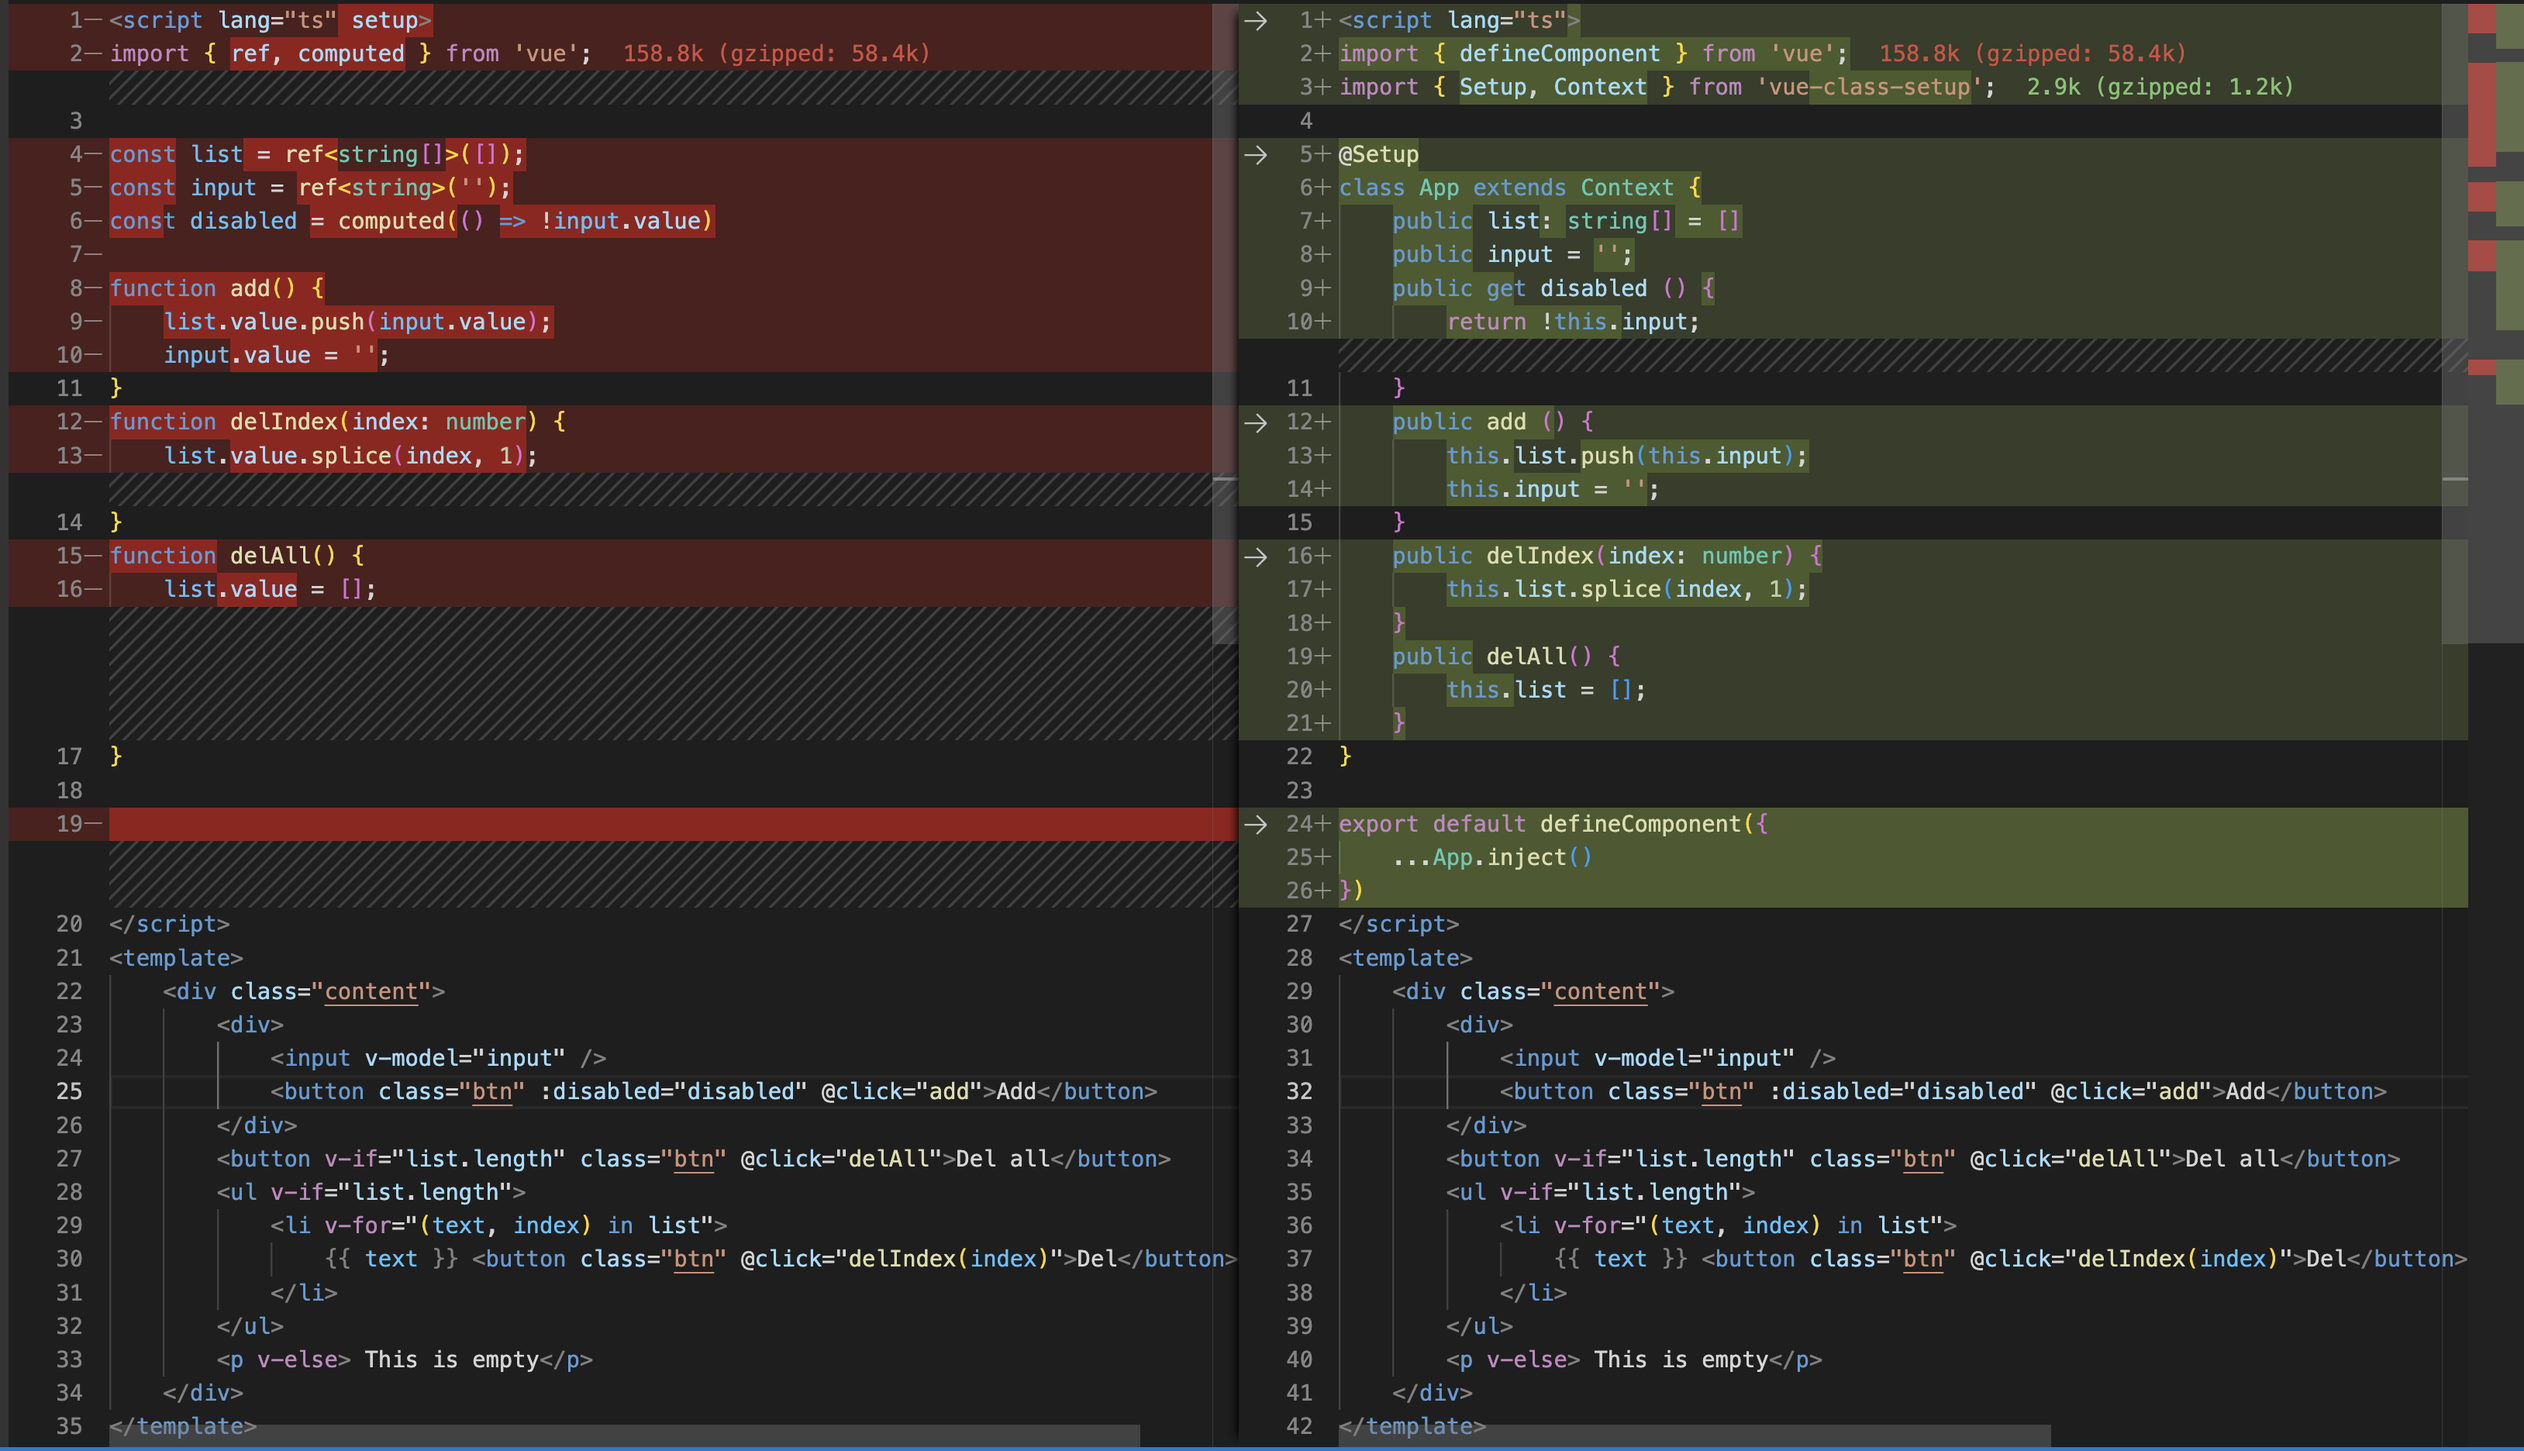
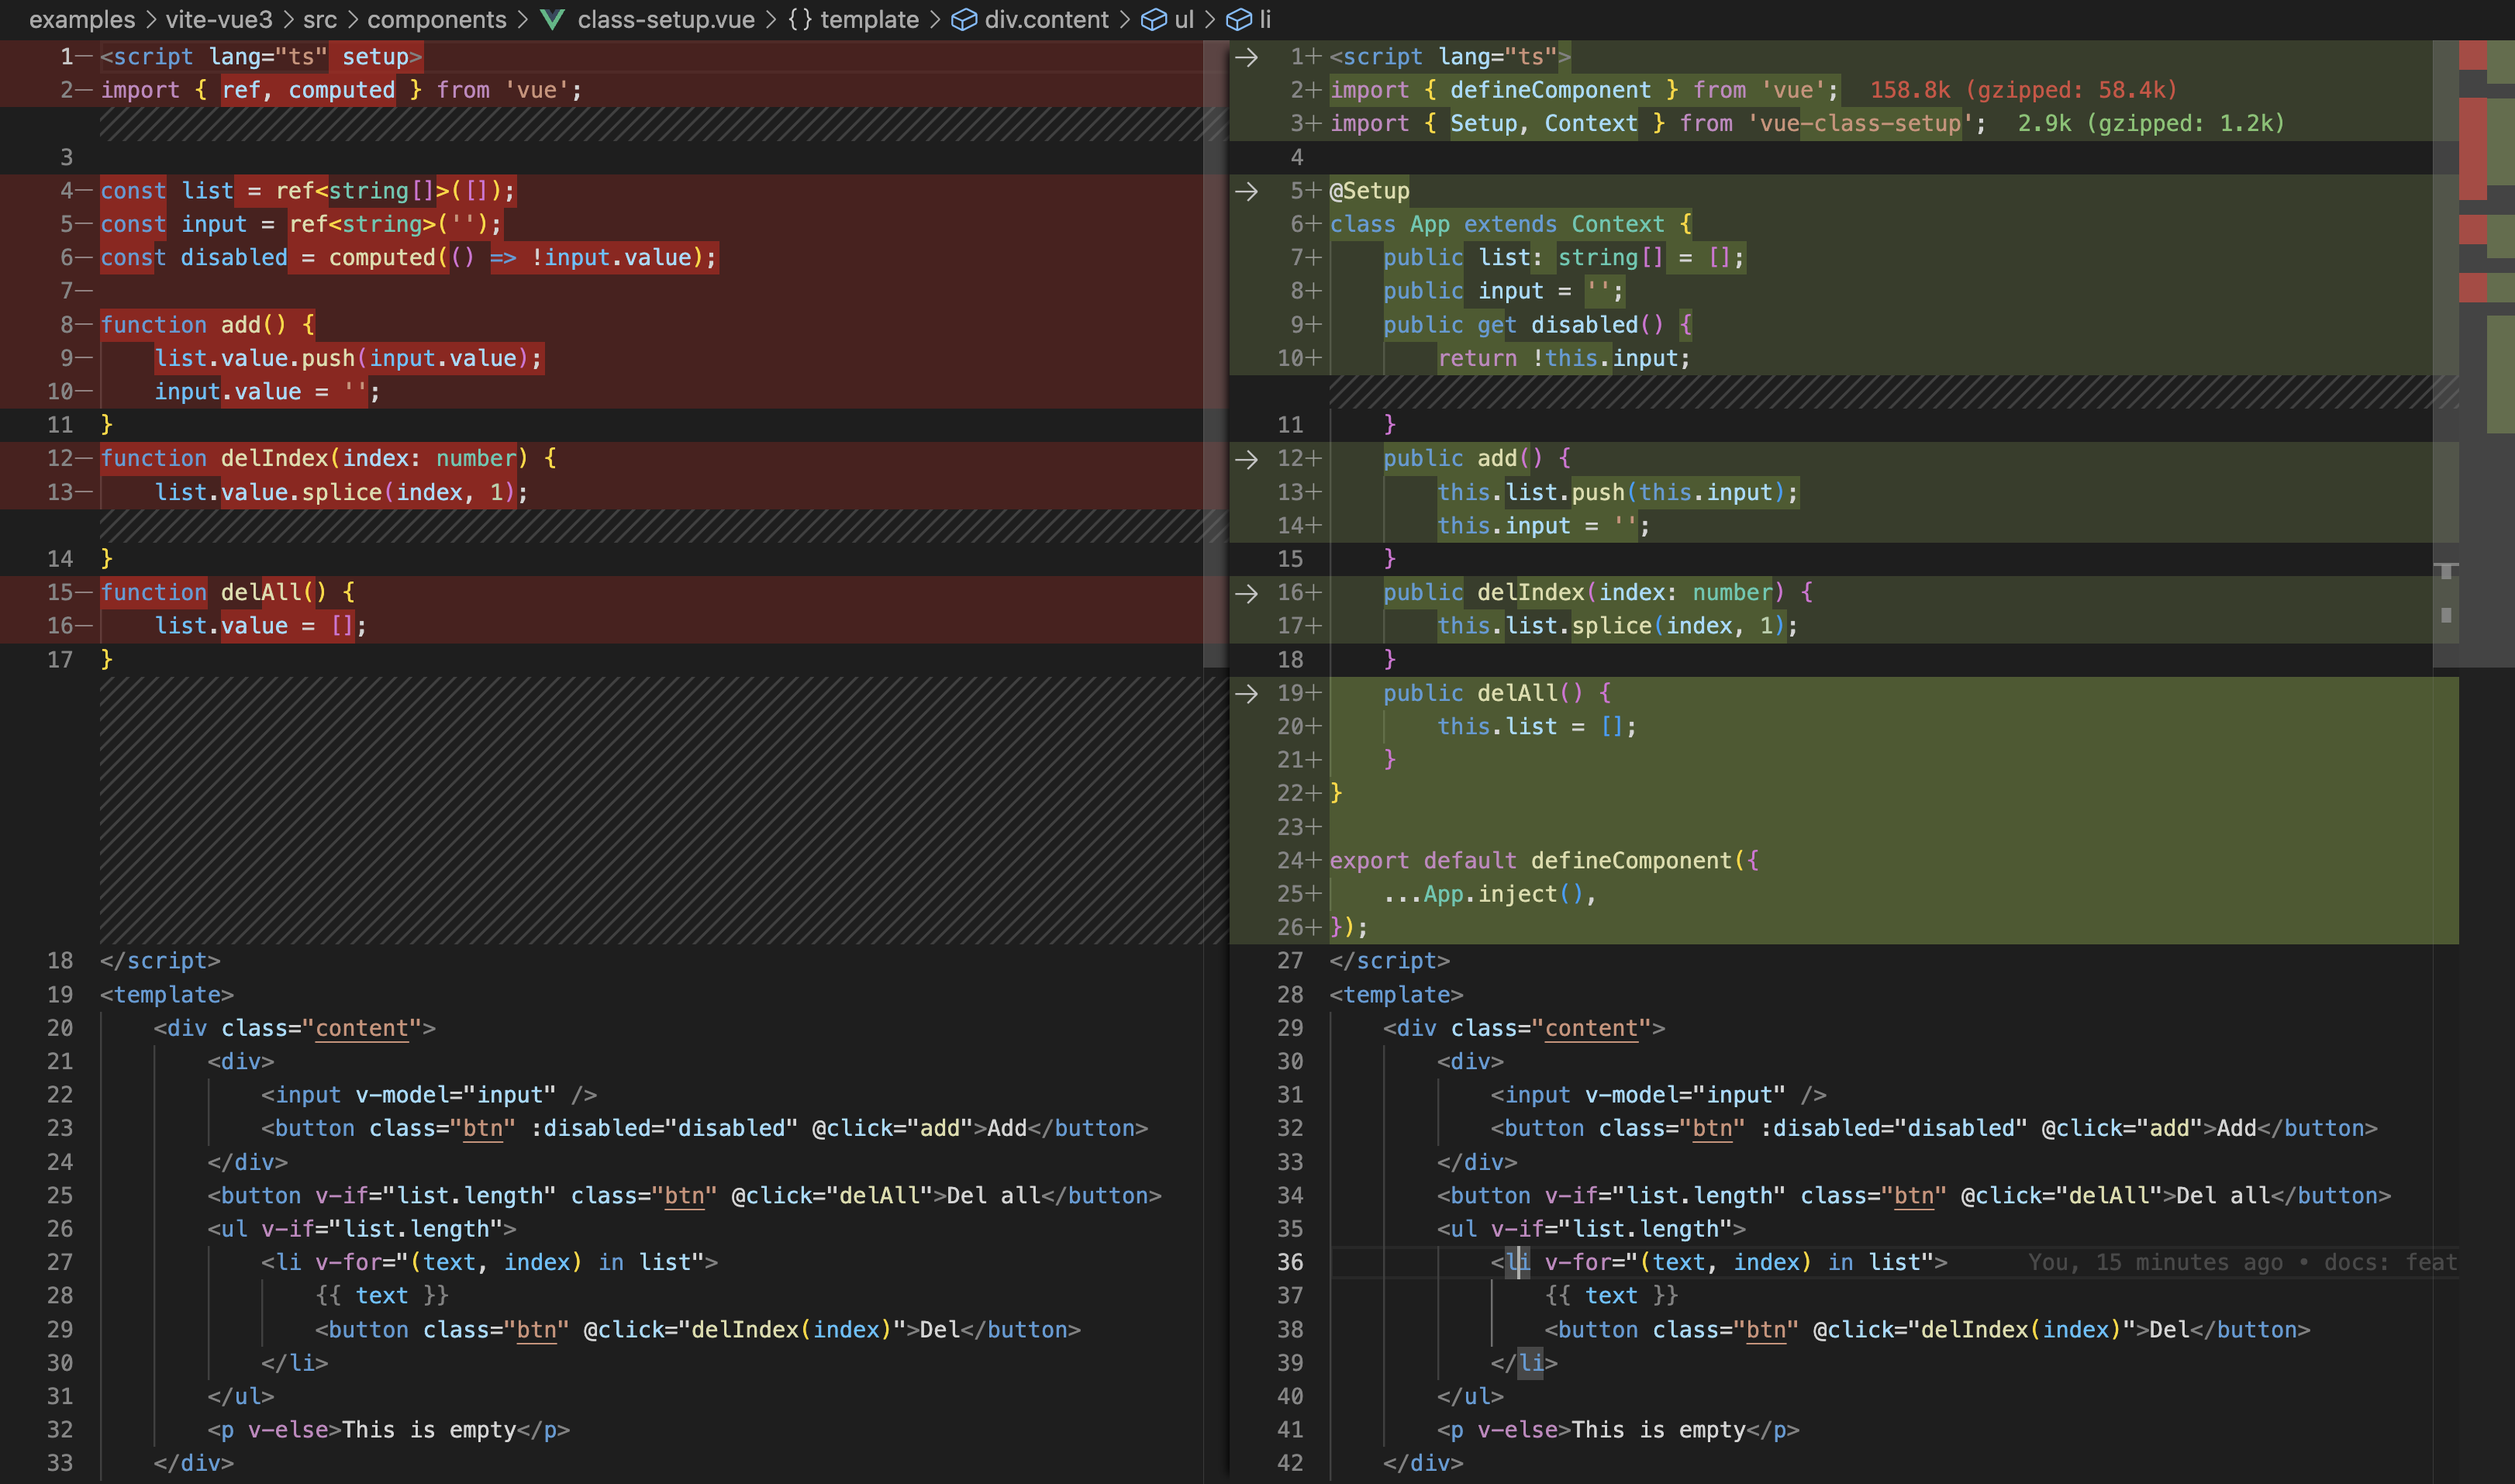
chore: fix code style

diff --git a/examples/vite-vue3/src/components/class-setup.vue b/examples/vite-vue3/src/components/class-setup.vue
@@ -4,12 +4,12 @@ import { Setup, Context } from 'vue-class-setup';
 
 @Setup
 class App extends Context {
-    public list: string[] = []
+    public list: string[] = [];
     public input = '';
-    public get disabled () {
+    public get disabled() {
         return !this.input;
     }
-    public add () {
+    public add() {
         this.list.push(this.input);
         this.input = '';
     }
@@ -22,8 +22,8 @@ class App extends Context {
 }
 
 export default defineComponent({
-    ...App.inject()
-})
+    ...App.inject(),
+});
 </script>
 <template>
     <div class="content">
@@ -34,10 +34,11 @@ export default defineComponent({
         <button v-if="list.length" class="btn" @click="delAll">Del all</button>
         <ul v-if="list.length">
             <li v-for="(text, index) in list">
-                {{ text }} <button class="btn" @click="delIndex(index)">Del</button>
+                {{ text }}
+                <button class="btn" @click="delIndex(index)">Del</button>
             </li>
         </ul>
-        <p v-else> This is empty</p>
+        <p v-else>This is empty</p>
     </div>
 </template>
 <style scoped>

diff --git a/examples/vite-vue3/src/components/native.vue b/examples/vite-vue3/src/components/native.vue
@@ -3,7 +3,7 @@ import { ref, computed } from 'vue';
 
 const list = ref<string[]>([]);
 const input = ref<string>('');
-const disabled = computed(() => !input.value)
+const disabled = computed(() => !input.value);
 
 function add() {
     list.value.push(input.value);
@@ -15,8 +15,6 @@ function delIndex(index: number) {
 function delAll() {
     list.value = [];
 }
-
-
 </script>
 <template>
     <div class="content">
@@ -27,10 +25,11 @@ function delAll() {
         <button v-if="list.length" class="btn" @click="delAll">Del all</button>
         <ul v-if="list.length">
             <li v-for="(text, index) in list">
-                {{ text }} <button class="btn" @click="delIndex(index)">Del</button>
+                {{ text }}
+                <button class="btn" @click="delIndex(index)">Del</button>
             </li>
         </ul>
-        <p v-else> This is empty</p>
+        <p v-else>This is empty</p>
     </div>
 </template>
 <style scoped>

diff --git a/examples/vite-vue3/src/App.vue b/examples/vite-vue3/src/App.vue
@@ -4,10 +4,10 @@ import Native from './components/native.vue';
 </script>
 
 <template>
-<h2>vue-class-setup</h2>
-<ClassSetup />
-<h2>Native</h2>
-<Native />
+    <h2>vue-class-setup</h2>
+    <ClassSetup />
+    <h2>Native</h2>
+    <Native />
 </template>
 <style scoped>
 h2 {

diff --git a/README.md b/README.md
@@ -11,6 +11,7 @@
 Using class can help you avoid `ref`, `reactive` , `computed` and `withDefaults`, and significantly reduce your mental burden and better organize your code. It supports vue2 and vue3 at the same time. After gzip compression, it is only 1KB
 
 ## [function](./examples/vite-vue3/src/components/native.vue) vs [class](./examples/vite-vue3/src/components/class-setup.vue)
+
 ![function vs class](./docs/compare.png)
 
 ## vue-class-component vs vue-class-setup

diff --git a/CHANGELOG.md b/CHANGELOG.md
@@ -1,3 +1,6 @@
+## 1.1.6
+
+-   fix: Improve unit testing and boundary treatment
 ## 1.1.5
 
 -   feat: inject to defineComponent and bind this
